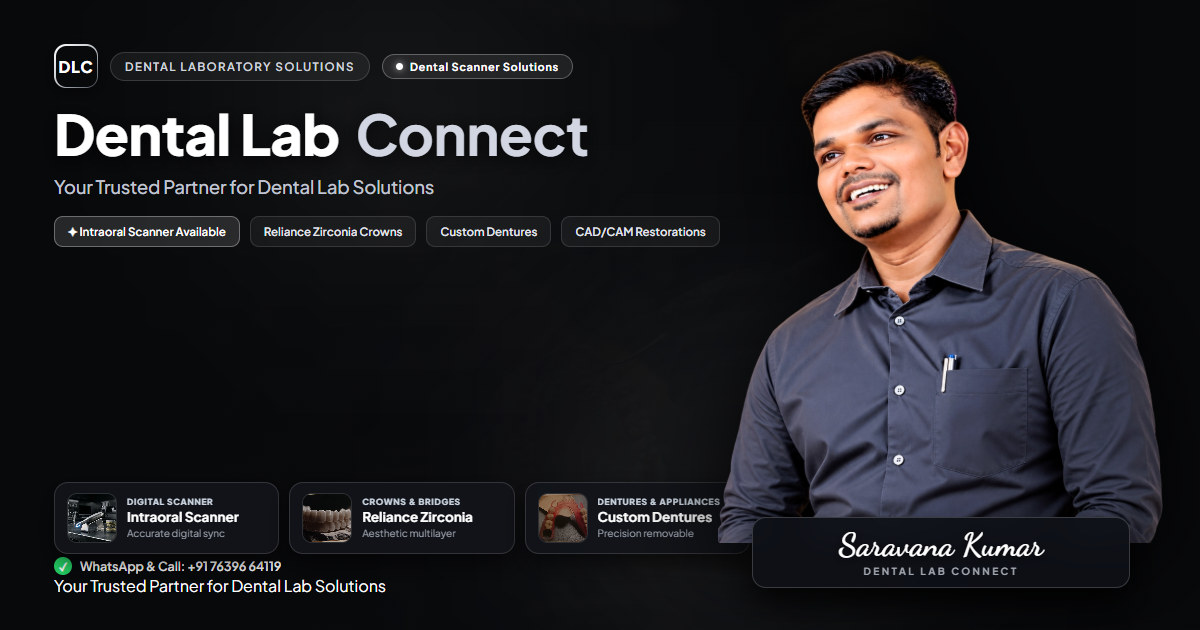
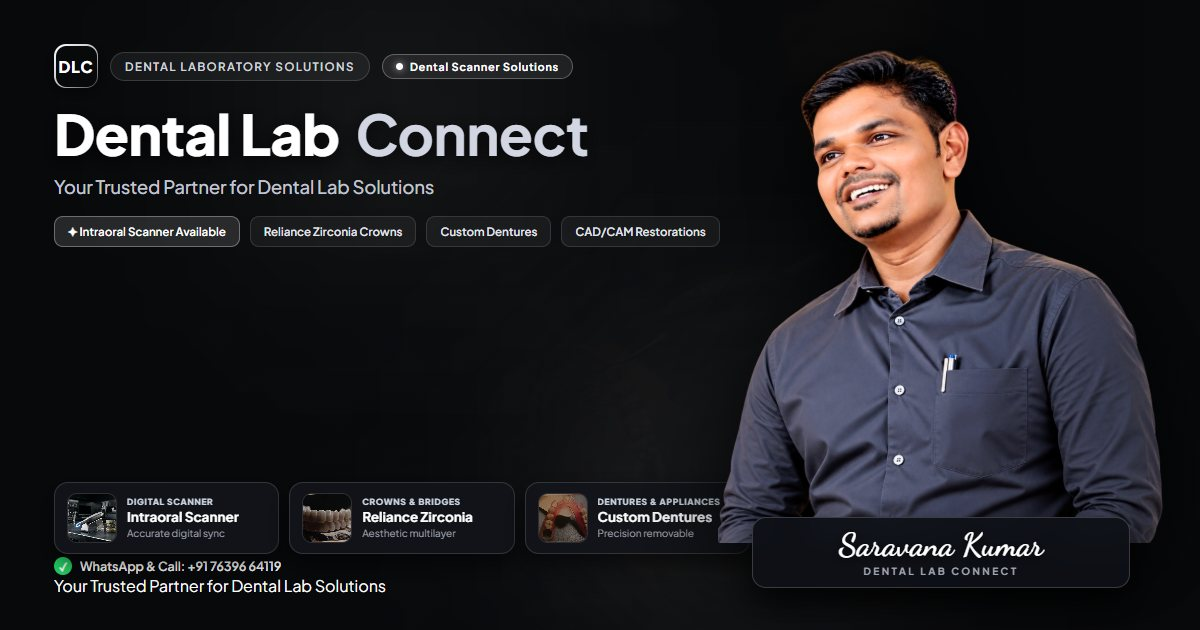
fix: optimize WhatsApp preview tags, 82KB 4:2:0 compression, and v3 image path

diff --git a/index.html b/index.html
@@ -1,38 +1,50 @@
 <!doctype html>
-<html lang="en" class="scroll-smooth bg-[#08090B] text-[#E5E7EB]">
+<html lang="en" prefix="og: https://ogp.me/ns#" class="scroll-smooth bg-[#08090B] text-[#E5E7EB]">
   <head>
     <meta charset="UTF-8" />
     <meta name="viewport" content="width=device-width, initial-scale=1.0" />
-    <!-- Primary Meta Tags -->
-    <title>Dental Lab Connect — Premium Dental Laboratory &amp; Digital Scanning Solutions</title>
-    <meta name="title" content="Dental Lab Connect — Premium Dental Laboratory &amp; Digital Scanning Solutions" />
-    <meta name="description" content="Dental Lab Connect: Precision-crafted dental products, intraoral dental scanner solutions, quality-focused workmanship, and reliable delivery coordination for dental professionals." />
 
-    <!-- Open Graph / Facebook / LinkedIn / WhatsApp -->
-    <meta property="og:type" content="website" />
-    <meta property="og:site_name" content="Dental Lab Connect" />
-    <meta property="og:url" content="https://dentallabconnect.vercel.app/" />
+    <!-- Open Graph for WhatsApp, Facebook, LinkedIn -->
     <meta property="og:title" content="Dental Lab Connect - Your Trusted Partner for Dental Lab Solutions" />
     <meta property="og:description" content="Explore quality dental products, dental scanner solutions, crowns, dentures, and reliable delivery coordination." />
-    <meta property="og:image" content="https://dentallabconnect.vercel.app/og-preview.jpg" />
-    <meta property="og:image:secure_url" content="https://dentallabconnect.vercel.app/og-preview.jpg" />
+    <meta property="og:image" content="https://dentallabconnect.vercel.app/og-preview-v3.jpg" />
+    <meta property="og:image:secure_url" content="https://dentallabconnect.vercel.app/og-preview-v3.jpg" />
     <meta property="og:image:type" content="image/jpeg" />
     <meta property="og:image:width" content="1200" />
     <meta property="og:image:height" content="630" />
     <meta property="og:image:alt" content="Dental Lab Connect - Your Trusted Partner for Dental Lab Solutions" />
-    <link rel="image_src" href="https://dentallabconnect.vercel.app/og-preview.jpg" />
+    <meta property="og:url" content="https://dentallabconnect.vercel.app/" />
+    <meta property="og:type" content="website" />
+    <meta property="og:site_name" content="Dental Lab Connect" />
+
+    <!-- Schema.org / Search / Universal Fallbacks -->
+    <meta itemprop="name" content="Dental Lab Connect - Your Trusted Partner for Dental Lab Solutions" />
+    <meta itemprop="description" content="Explore quality dental products, dental scanner solutions, crowns, dentures, and reliable delivery coordination." />
+    <meta itemprop="image" content="https://dentallabconnect.vercel.app/og-preview-v3.jpg" />
+    <link rel="image_src" href="https://dentallabconnect.vercel.app/og-preview-v3.jpg" />
+    <link rel="canonical" href="https://dentallabconnect.vercel.app/" />
 
     <!-- Twitter / X -->
     <meta name="twitter:card" content="summary_large_image" />
     <meta name="twitter:url" content="https://dentallabconnect.vercel.app/" />
     <meta name="twitter:title" content="Dental Lab Connect - Your Trusted Partner for Dental Lab Solutions" />
     <meta name="twitter:description" content="Explore quality dental products, dental scanner solutions, crowns, dentures, and reliable delivery coordination." />
-    <meta name="twitter:image" content="https://dentallabconnect.vercel.app/og-preview.jpg" />
+    <meta name="twitter:image" content="https://dentallabconnect.vercel.app/og-preview-v3.jpg" />
+
+    <!-- Primary Meta Tags -->
+    <title>Dental Lab Connect — Premium Dental Laboratory &amp; Digital Scanning Solutions</title>
+    <meta name="title" content="Dental Lab Connect — Premium Dental Laboratory &amp; Digital Scanning Solutions" />
+    <meta name="description" content="Explore quality dental products, dental scanner solutions, crowns, dentures, and reliable delivery coordination." />
+
     <link rel="preconnect" href="https://fonts.googleapis.com">
     <link rel="preconnect" href="https://fonts.gstatic.com" crossorigin>
     <link href="https://fonts.googleapis.com/css2?family=Dancing+Script:wght@600;700&family=Cinzel:wght@500;600;700&family=Outfit:wght@300;400;500;600;700;800&family=Plus+Jakarta+Sans:wght@300;400;500;600;700;800&display=swap" rel="stylesheet">
   </head>
   <body class="bg-[#08090B] text-[#E5E7EB] antialiased selection:bg-neutral-300 selection:text-neutral-900 font-['Plus_Jakarta_Sans',sans-serif]">
+    <!-- Hidden fallback for scrapers that look inside body -->
+    <div style="display:none;position:absolute;width:0;height:0;overflow:hidden;" aria-hidden="true">
+      <img src="https://dentallabconnect.vercel.app/og-preview-v3.jpg" alt="Dental Lab Connect" width="1200" height="630" />
+    </div>
     <div id="root"></div>
     <script type="module" src="/src/main.tsx"></script>
   </body>

diff --git a/scripts/generate_og.py b/scripts/generate_og.py
@@ -501,6 +501,7 @@ if os.path.exists(out_png_path):
     print(f"Generated successfully: {out_png_path} ({img.size})")
 
     out_files = [
+        "public/og-preview-v3.jpg",
         "public/og-preview.jpg",
         "public/og-thumbnail-v2.jpg",
         "public/og-thumbnail.jpg"
@@ -508,7 +509,7 @@ if os.path.exists(out_png_path):
     rgb_img = img.convert("RGB")
     for out_rel in out_files:
         p = os.path.abspath(out_rel)
-        rgb_img.save(p, "JPEG", quality=88, optimize=True, subsampling=0)
+        rgb_img.save(p, "JPEG", quality=84, optimize=True)
         print(f"Generated successfully: {p} ({os.path.getsize(p) / 1024:.1f} KB)")
 
 if os.path.exists(temp_html_path):
